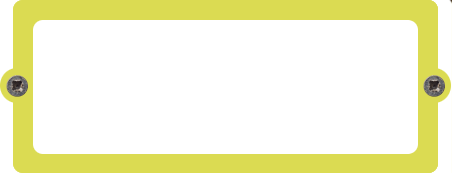
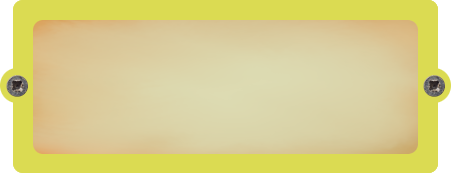
added header art for project list

diff --git a/src/output.css b/src/output.css
@@ -755,18 +755,6 @@ video {
   z-index: 50;
 }
 
-.col-span-2 {
-  grid-column: span 2 / span 2;
-}
-
-.col-span-1 {
-  grid-column: span 1 / span 1;
-}
-
-.col-span-5 {
-  grid-column: span 5 / span 5;
-}
-
 .mx-\[2\%\] {
   margin-left: 2%;
   margin-right: 2%;
@@ -790,11 +778,6 @@ video {
 .my-\[4\%\] {
   margin-top: 4%;
   margin-bottom: 4%;
-}
-
-.mx-\[\%\] {
-  margin-left: %;
-  margin-right: %;
 }
 
 .-ml-\[1\%\] {
@@ -835,6 +818,10 @@ video {
 
 .ml-\[25\%\] {
   margin-left: 25%;
+}
+
+.ml-\[3\%\] {
+  margin-left: 3%;
 }
 
 .ml-\[4\%\] {
@@ -897,36 +884,20 @@ video {
   margin-top: 25%;
 }
 
+.mt-\[5\%\] {
+  margin-top: 5%;
+}
+
 .mt-\[5\.5\%\] {
   margin-top: 5.5%;
-}
-
-.mr-\[5\%\] {
-  margin-right: 5%;
-}
-
-.ml-\[\] {
-  margin-left: ;
-}
-
-.ml-\[1\%\] {
-  margin-left: 1%;
 }
 
 .ml-\[2\%\] {
   margin-left: 2%;
 }
 
-.ml-\[3\%\] {
-  margin-left: 3%;
-}
-
-.mt-\[\] {
-  margin-top: ;
-}
-
-.mt-\[5\%\] {
-  margin-top: 5%;
+.ml-\[\%\] {
+  margin-left: %;
 }
 
 .inline {
@@ -939,10 +910,6 @@ video {
 
 .inline-flex {
   display: inline-flex;
-}
-
-.grid {
-  display: grid;
 }
 
 .hidden {
@@ -1133,14 +1100,6 @@ video {
   width: 100vw;
 }
 
-.w-\[80\%\] {
-  width: 80%;
-}
-
-.w-\[50\%\] {
-  width: 50%;
-}
-
 .flex-shrink {
   flex-shrink: 1;
 }
@@ -1278,14 +1237,6 @@ video {
           columns: 2;
 }
 
-.grid-cols-2 {
-  grid-template-columns: repeat(2, minmax(0, 1fr));
-}
-
-.grid-rows-5 {
-  grid-template-rows: repeat(5, minmax(0, 1fr));
-}
-
 .flex-row {
   flex-direction: row;
 }
@@ -1308,26 +1259,6 @@ video {
 
 .justify-between {
   justify-content: space-between;
-}
-
-.gap-1 {
-  gap: 0.25rem;
-}
-
-.gap-2 {
-  gap: 0.5rem;
-}
-
-.gap-5 {
-  gap: 1.25rem;
-}
-
-.gap-\[\] {
-  gap: ;
-}
-
-.gap-\[5\%\] {
-  gap: 5%;
 }
 
 .space-x-0 > :not([hidden]) ~ :not([hidden]) {
@@ -1450,6 +1381,19 @@ video {
   background-color: rgb(30 41 59 / var(--tw-bg-opacity));
 }
 
+.bg-\[\] {
+  background-color: ;
+}
+
+.bg-\[aaaa8c\] {
+  background-color: aaaa8c;
+}
+
+.bg-\[\#aaaa8c\] {
+  --tw-bg-opacity: 1;
+  background-color: rgb(170 170 140 / var(--tw-bg-opacity));
+}
+
 .bg-\[radial-gradient\(circle_at_center\2c _var\(--tw-gradient-stops\)\)\] {
   background-image: radial-gradient(circle at center, var(--tw-gradient-stops));
 }
@@ -1507,18 +1451,6 @@ video {
   padding-bottom: 2%;
 }
 
-.pb-\[\] {
-  padding-bottom: ;
-}
-
-.pb-\[5\%\] {
-  padding-bottom: 5%;
-}
-
-.pb-\[10\%\] {
-  padding-bottom: 10%;
-}
-
 .text-center {
   text-align: center;
 }
@@ -1550,45 +1482,16 @@ video {
   line-height: 1;
 }
 
+.text-\[2\.4vw\] {
+  font-size: 2.4vw;
+}
+
 .text-\[2vw\] {
   font-size: 2vw;
 }
 
-.text-\[4vw\] {
-  font-size: 4vw;
-}
-
 .text-\[5vw\] {
   font-size: 5vw;
-}
-
-.text-lg {
-  font-size: 1.125rem;
-  line-height: 1.75rem;
-}
-
-.text-\[1vh\] {
-  font-size: 1vh;
-}
-
-.text-\[1vw\] {
-  font-size: 1vw;
-}
-
-.text-\[3vw\] {
-  font-size: 3vw;
-}
-
-.text-\[3vh\] {
-  font-size: 3vh;
-}
-
-.text-\[2\.5vw\] {
-  font-size: 2.5vw;
-}
-
-.text-\[2\.4vw\] {
-  font-size: 2.4vw;
 }
 
 .leading-snug {
@@ -1615,8 +1518,9 @@ video {
   color: rgb(255 255 255 / var(--tw-text-opacity));
 }
 
-.text-\[1v\] {
-  color: 1v;
+.text-black {
+  --tw-text-opacity: 1;
+  color: rgb(0 0 0 / var(--tw-text-opacity));
 }
 
 .placeholder-green-400::-webkit-input-placeholder {

diff --git a/src/components/Projects/index.tsx b/src/components/Projects/index.tsx
@@ -11,6 +11,7 @@ import {
 } from "framer-motion";
 import ProjectDetails from "./ProjectDetails";
 import namePlateBorder from "../../images/proj_nameplate_border.png";
+import namePlateBG from "../../images/proj_nameplate_bg.png"
 
 interface Project {
   name: string;
@@ -138,21 +139,22 @@ const ProjectRight = ({ data }: { data: Project[] }) => {
 
   return (
     <div className="flex w-full mx-[3%] mt-[2%] mb-[5%] overflow-auto scrollbar-hide bg-black">
-      <div className="w-full mt-[5%] mr-[1%] ml-[3%] bg-blue-400">
-        <ul className="flex-col columns-2 w-full list-none space-y-4">
+      <div className=" w-full h-full mt-[5%] ml-[2%] bg-[#aaaa8c]">
+        <img src={namePlateBG} className="w-full" />
+        <ul className="flex-col columns-2 w-full list-none space-y-4 bg-[#aaaa8c]">
           {data.map((project, index) => {
             return (
               <>
-                <div className="relative h-fit z-10 bg-red-400">
+                <div className="relative h-fit">
                   <div className="project-nameplate-border border-ws pointer-events-none">
                     <img src={namePlateBorder} className="w-[75%] invisible" />
                   </div>
                   <li
                     key={project.name}
-                    className="absolute top-1/2 left-1/2 -translate-x-1/2 -translate-y-1/2 w-full cursor-pointer -z-20 bg-orange-400"
+                    className="absolute top-1/2 left-1/2 -translate-x-1/2 -translate-y-1/2 w-full cursor-pointer"
                   >
                     <p
-                      className="text-[2.4vw] text-center text-white"
+                      className="text-[2.4vw] text-center text-black"
                       onMouseEnter={() => handleMouseEnter(index)}
                       onMouseLeave={handleMouseLeave}
                       onClick={() => handleDetailsDisplay(true, index)}
